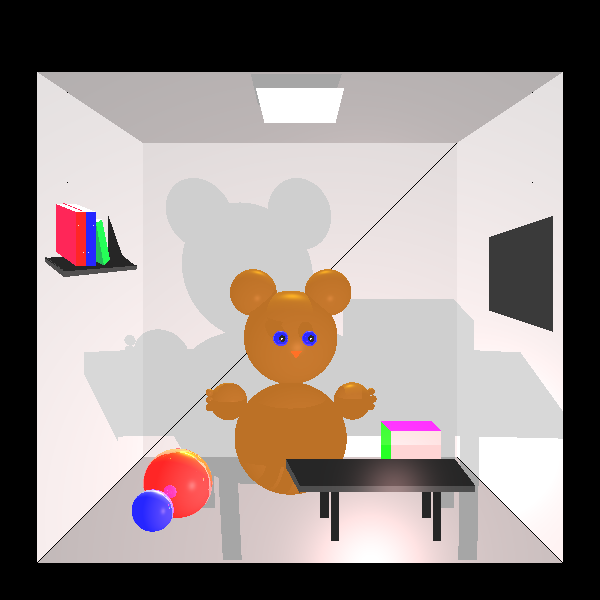
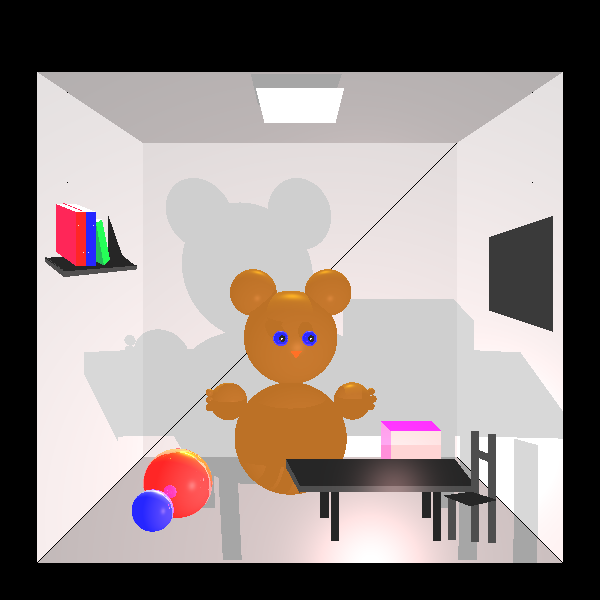
chaise

Changed region(s): [[0.72, 0.72, 0.9, 0.96], [0.63, 0.69, 0.66, 0.78]]

diff --git a/unitTest/images/ourImages.java b/unitTest/images/ourImages.java
@@ -351,7 +351,7 @@ public class ourImages {
                         new Point(45, -90, 10),
                         new Point(45, -65, 10),
                         new Point(40, -60, 10)
-                ).setEmission(new Color(green))
+                ).setEmission(new Color(255,105,180))
                         .setMaterial(new Material().setKd(0.1).setKs(0.2).setShininess(30).setKr(0.3)),
 
 
@@ -359,7 +359,7 @@ public class ourImages {
                         new Point(45, -90, 10),
                         new Point(40, -85, 10),
                         new Point(40, -60, 10)
-                ).setEmission(new Color(green))
+                ).setEmission(new Color(255,105,180))
                         .setMaterial(new Material().setKd(0.1).setKs(0.2).setShininess(30).setKr(0.3)),
 
                 new Triangle(
@@ -554,6 +554,7 @@ public class ourImages {
                         new Point(85, -90, 30)
                 ).setEmission(new Color(black))
                         .setMaterial(new Material().setKd(0.001).setKs(0.4).setShininess(50)),
+                //reliefs
                 new Triangle(
                         new Point(0, -90, 30),
                         new Point(-7, -77, 30),
@@ -581,6 +582,81 @@ public class ourImages {
 
 
 
+
+                //chair
+                //back foot right
+                new Triangle(
+                        new Point(95, -65, 30),
+                        new Point(91, -65, 30),
+                        new Point(91, -118, 30)
+                ).setEmission(new Color(40,40,40))
+                        .setMaterial(new Material().setKd(0.001).setKs(0.4).setShininess(50)),
+                new Triangle(
+                        new Point(91, -118, 30),
+                        new Point(95, -118, 30),
+                        new Point(95, -65, 30)
+                ).setEmission(new Color(40,40,40))
+                        .setMaterial(new Material().setKd(0.001).setKs(0.4).setShininess(50)),
+                //back foot left
+                new Triangle(
+                        new Point(82, -63, 40),
+                        new Point(86, -63, 40),
+                        new Point(86, -116, 40)
+                ).setEmission(new Color(40,40,40))
+                        .setMaterial(new Material().setKd(0.001).setKs(0.4).setShininess(50)),
+                new Triangle(
+                        new Point(86, -116, 40),
+                        new Point(82, -116, 40),
+                        new Point(82, -63, 40)
+                ).setEmission(new Color(40,40,40))
+                        .setMaterial(new Material().setKd(0.001).setKs(0.4).setShininess(50)),
+
+                //dossier
+                new Triangle(
+                        new Point(86, -72, 40),
+                        new Point(86, -76, 40),
+                        new Point(91, -78, 40)
+                ).setEmission(new Color(40,40,40))
+                        .setMaterial(new Material().setKd(0.001).setKs(0.4).setShininess(50)),
+                new Triangle(
+                        new Point(91, -78, 40),
+                        new Point(91, -74, 40),
+                        new Point(86, -72, 40)
+                ).setEmission(new Color(40,40,40))
+                        .setMaterial(new Material().setKd(0.001).setKs(0.4).setShininess(50)),
+
+                //sit
+                new Triangle(
+                        new Point(82, -92, 40),
+                        new Point(67, -92, 60),
+                        new Point(95, -96, 40)
+                ).setEmission(new Color(black))
+                        .setMaterial(new Material().setKd(0.001).setKs(0.4).setShininess(50)),
+                new Triangle(
+                        new Point(95, -96, 40),
+                        new Point(80, -97, 60),
+                        new Point(67, -92, 60)
+                ).setEmission(new Color(black))
+                        .setMaterial(new Material().setKd(0.001).setKs(0.4).setShininess(50)),
+
+
+                //left foot front
+                new Triangle(
+                        new Point(71, -94, 40),
+                        new Point(75, -95, 40),
+                        new Point(75, -115, 40)
+                ).setEmission(new Color(40,40,40))
+                        .setMaterial(new Material().setKd(0.001).setKs(0.4).setShininess(50)),
+                new Triangle(
+                        new Point(75, -115, 40),
+                        new Point(71, -115, 40),
+                        new Point(71, -94, 40)
+                ).setEmission(new Color(40,40,40))
+                        .setMaterial(new Material().setKd(0.001).setKs(0.4).setShininess(50)),
+
+
+
+
                 //balls
                 new Sphere(new Point(-60, -90, 17), 17d) //
                         .setEmission(new Color(red)) //
@@ -588,6 +664,8 @@ public class ourImages {
                 new Sphere(new Point(-70, -100, 50), 10d) //
                         .setEmission(new Color(blue)) //
                         .setMaterial(new Material().setKd(0.5).setKs(0.5).setKr(0.5).setShininess(30))
+
+
 
 
         );
